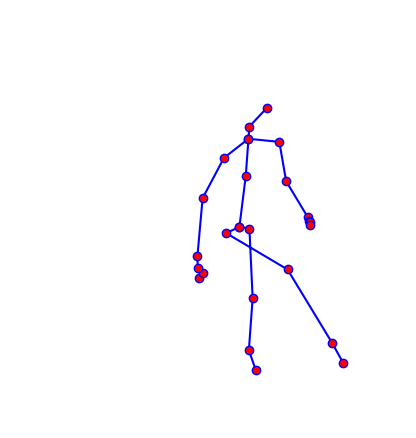
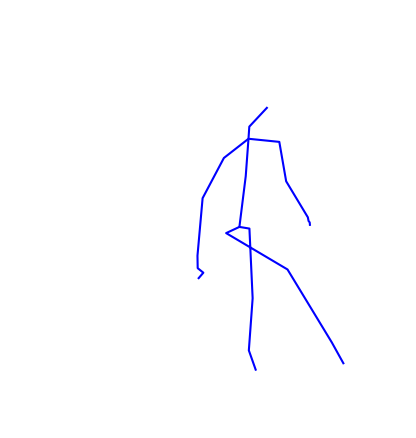
Updated debug skeleton display

diff --git a/data/3d_skel_display.py b/data/3d_skel_display.py
@@ -11,6 +11,7 @@ import os
 import numpy as np
 from mpl_toolkits.mplot3d import Axes3D
 import matplotlib.pyplot as plt
+import matplotlib.colors as mcolors
 from PIL import Image
 
 
@@ -23,17 +24,23 @@ body = [trunk_joints, arm_joints, leg_joints]
 # Show 3D Skeleton with Axes3D for NTU RGB+D
 class Draw3DSkeleton(object):
 
-	def __init__(self, file, save_path=None, init_horizon=-45,
-				 init_vertical=20, x_rotation=None,
-				 y_rotation=None):
+	def __init__(
+			self,
+			file_path,
+			save_path=None,
+			init_horizon=-45,
+			init_vertical=20,
+			x_rotation=None,
+			y_rotation=None
+ ):
 
-		self.file = file
+		self.file_path = file_path
 		self.save_path = save_path
 
 		if not os.path.exists(self.save_path):
 			os.mkdir(self.save_path)
 
-		self.xyz = self.read_xyz(self.file)
+		self.xyz = self.read_xyz()
 
 		self.init_horizon = init_horizon
 		self.init_vertical = init_vertical
@@ -41,8 +48,8 @@ class Draw3DSkeleton(object):
 		self.x_rotation = x_rotation
 		self.y_rotation = y_rotation
 
-	def _read_skeleton(self, file):
-		with open(file, 'r') as f:
+	def _read_skeleton(self):
+		with open(self.file_path, 'r') as f:
 			skeleton_sequence = {}
 			skeleton_sequence['numFrame'] = int(f.readline())
 			skeleton_sequence['frameInfo'] = []
@@ -79,8 +86,8 @@ class Draw3DSkeleton(object):
 				skeleton_sequence['frameInfo'].append(frame_info)
 		return skeleton_sequence
 
-	def read_xyz(self, file, max_body=2, num_joint=25):
-		seq_info = self._read_skeleton(file)
+	def read_xyz(self, max_body=2, num_joint=25):
+		seq_info = self._read_skeleton()
 		data = np.zeros((3, seq_info['numFrame'], num_joint, max_body))  # (3,frame_nums,25 2)
 		for n, f in enumerate(seq_info['frameInfo']):
 			for m, b in enumerate(f['bodyInfo']):
@@ -125,12 +132,14 @@ class Draw3DSkeleton(object):
 
 		return data
 	
-	def save_skeleton_frames(self, frame_indices):
+	def draw_skeleton_frames(self, frame_indices, adj=None):
 		"""
 		Save 3D skeleton plots for specific frames as images.
 
 		Args:
 			frame_indices (list): List of frame indices to process.
+			adj (list): list of value that are used to add cmap colors to scatter plot
+				points that represent the joints of the skeleton.
 		"""
 
 		fig = plt.figure(figsize=(10,8))
@@ -164,7 +173,16 @@ class Draw3DSkeleton(object):
 				x_plot = x[part]
 				y_plot = y[part]
 				z_plot = z[part]
-				ax.plot(x_plot, y_plot, z_plot, color='b', marker='o', markerfacecolor='r')
+				ax.plot(
+					x_plot,
+					y_plot,
+					z_plot,
+					color='b',
+					# marker='o',
+					# markerfacecolor='r'
+				)
+
+			ax.scatter(x,y,z, s=adj*1000, c=adj, cmap='Reds', marker='o')
 
 			ax.set_xlabel('X')
 			ax.set_ylabel('Z')
@@ -184,13 +202,41 @@ class Draw3DSkeleton(object):
 
 
 if __name__ == '__main__':
+	from graph.ntu_rgb_d import Graph
+
+	# graph = Graph()
+	# A = graph.A.mean(0).mean(1)
+
+	dataset='ntu'
+	model_type = 'base'
+	evaluation="CV"
+	dilation=3
+	gcn_number=1
+
+	# This value is created by passing samples through the model and saving the
+	# adjacency matrix gradients
+	grad_importance = np.load(f"grad_importance_{model_type}.npy")
+
+	A = grad_importance.mean(axis=0).mean(axis=0)
+	# A_norm = (A - np.min(A)) / (np.max(A) - np.min(A))
+	A_norm = (A) / (0.2)
+
 	# 26 - hopping, 42 - staggering, 31 - point at something, 24 - kicking
 	# skel_name = 'S009C003P019R001A026.skeleton' # Hopping (-70, 90) rotation
 	skel_name = 'S009C001P019R001A024.skeleton'
 	rotation = {'x_rotation': -90, 'y_rotation': 150}
-	sk = Draw3DSkeleton(f"../Datasets/NTU_RGBD/nturgb+d_skeletons/{skel_name}", './data/visualisations/skeletons', **rotation)
-	
+	sk = Draw3DSkeleton(
+		file_path=f"../Datasets/NTU_RGBD/nturgb+d_skeletons/{skel_name}",
+		save_path='./data/visualisations/skeletons',
+		init_horizon=-45,
+		init_vertical=20,
+		**rotation
+	)
+
 	# Define frames to process and save
 	frames_to_save = [0,10,20,30,40,50]
 	# frames_to_save = [0,30,60,90,120]
-	sk.save_skeleton_frames(frame_indices=frames_to_save)
+	sk.draw_skeleton_frames(
+		frame_indices=frames_to_save,
+		adj=A_norm
+	)
